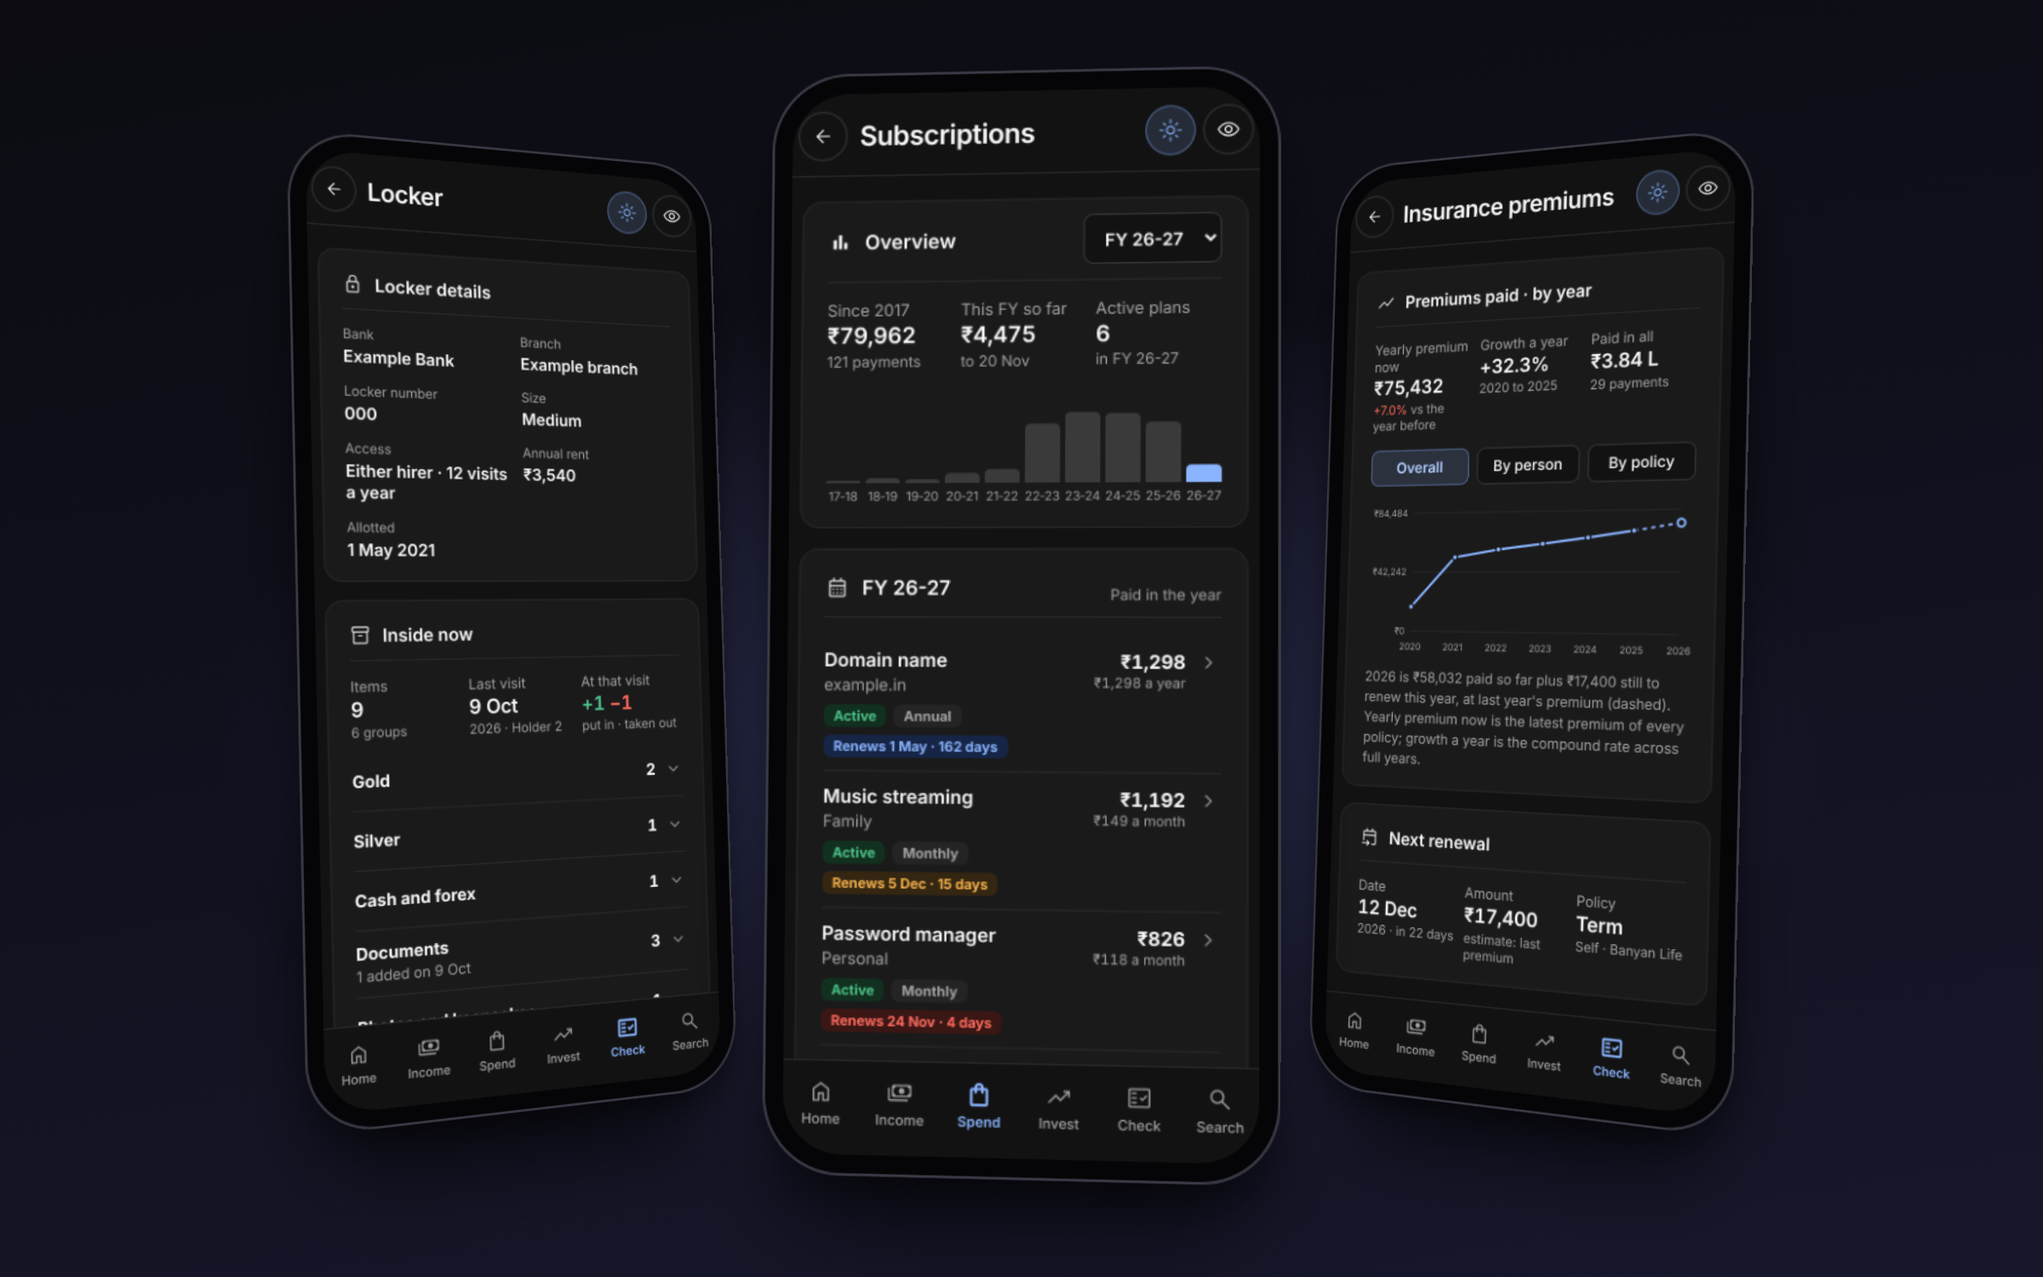
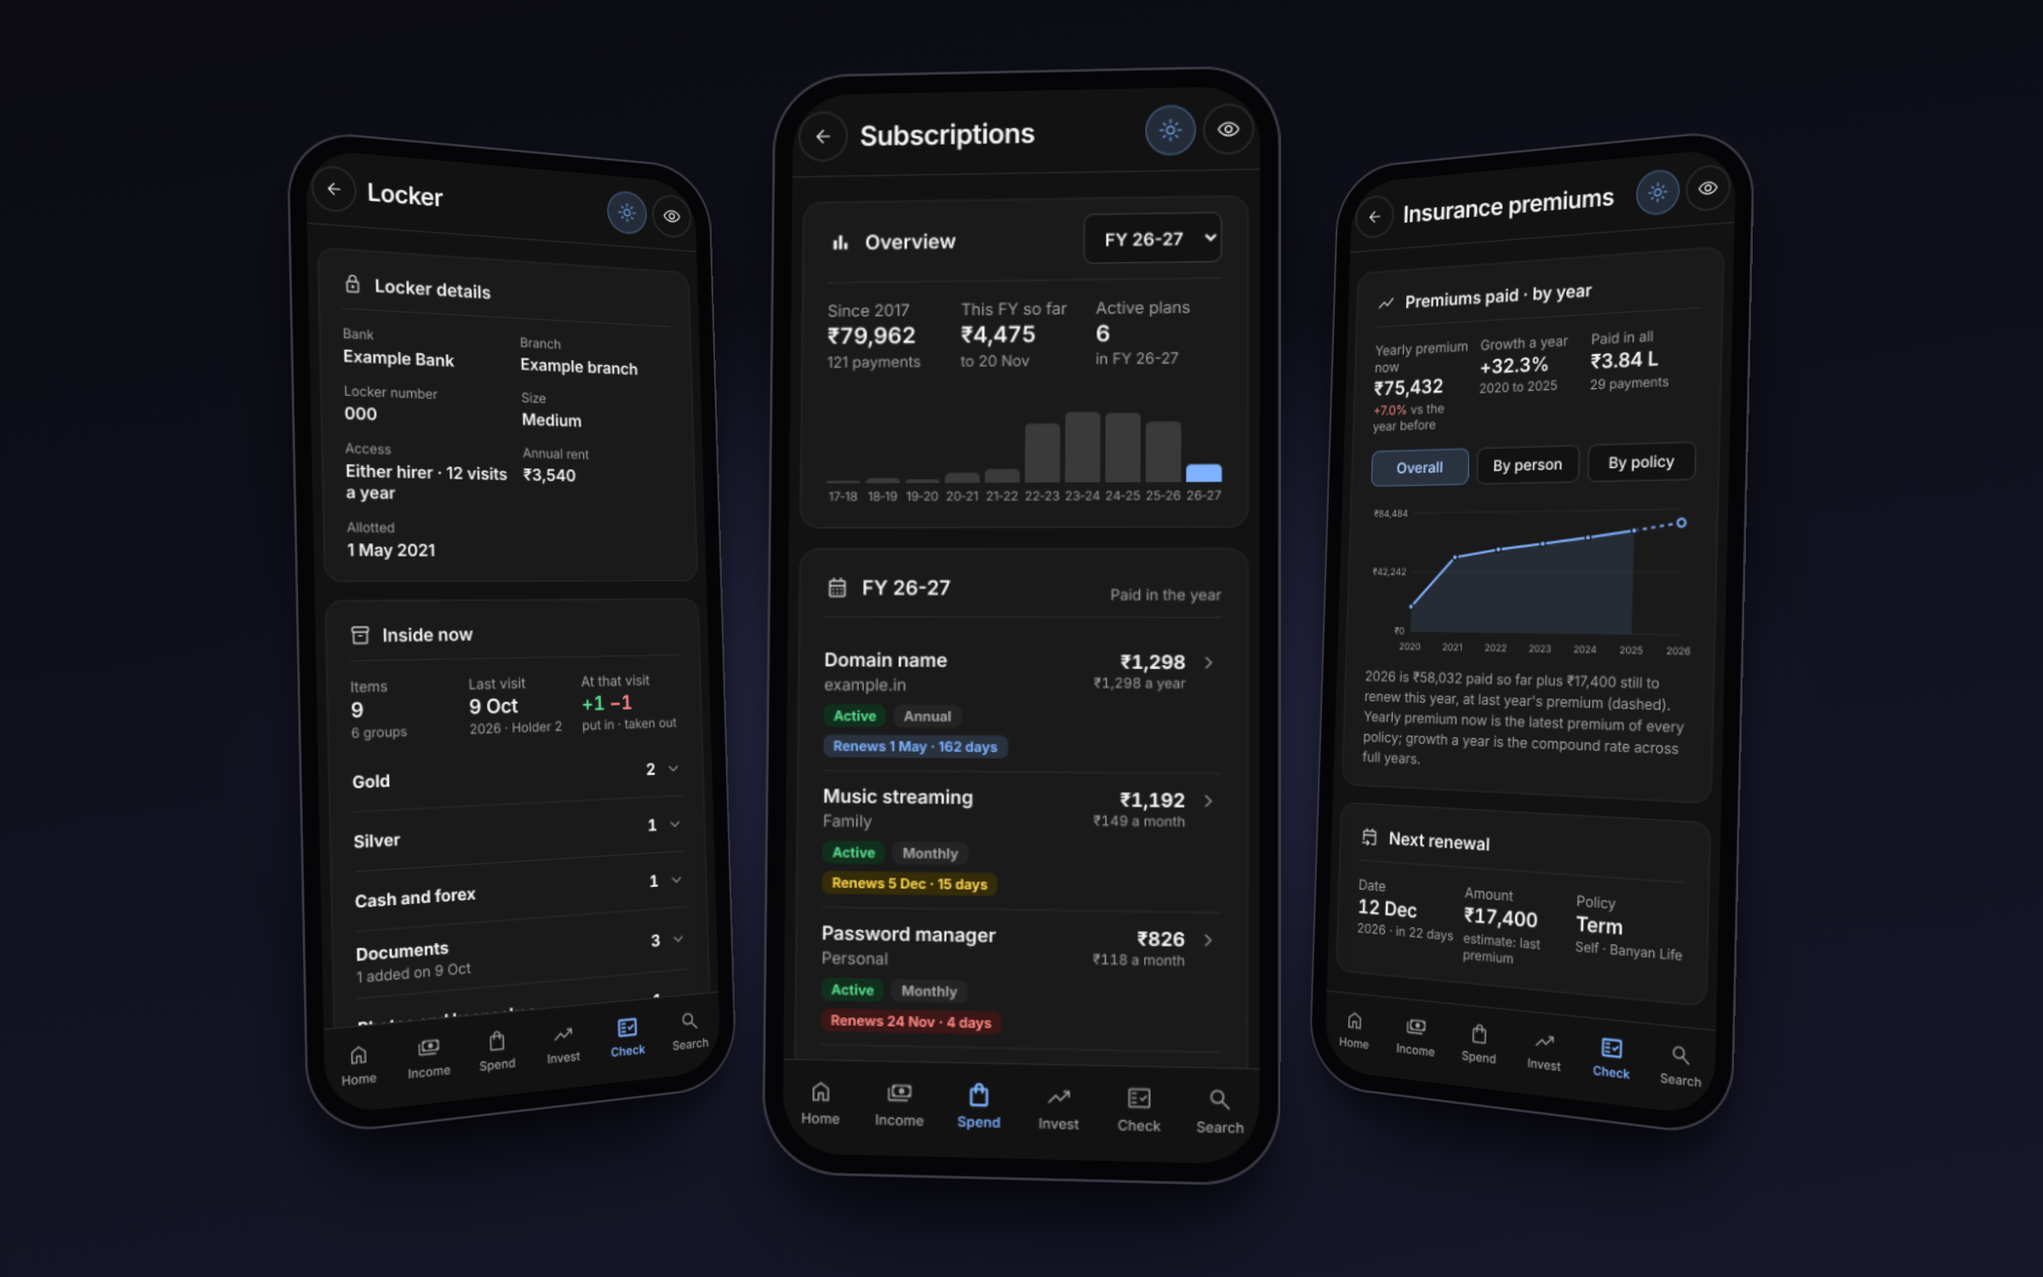
Changed theme colour to Azure

Changed region(s): [[0.6875, 0.3987, 0.8125, 0.5213]]

diff --git a/apps-script/Index.html b/apps-script/Index.html
@@ -203,8 +203,12 @@ button.card{border:1px solid var(--line)}
 :root{--s2:#7B8BA3;--s3:#E2A03F;--s4:#2E9E95;--s5:#C2649A;--s6:#3FA7D6}
 html.dark{--s2:#9AA8BD;--s3:#F0B65E;--s4:#4FC2B8;--s5:#E08BBD;--s6:#6CC4EA}
 /* Tags with time to spare: the accent blue on a light tint */
-:root{--tb:#1F5BD8;--tbb:#E3EEFF}
-html.dark{--tb:#8AB4FF;--tbb:#162545}
+/* Status colours: each a pastel fill, a bold shade for text and a brighter shade for charts and bars.
+   Green: done, healthy, gain. Yellow: watch. Amber: act soon. Red: urgent, loss, missed. Blue: all clear, time to spare. */
+:root{--pos:#12823B;--posbg:#E3F6E9;--posb:#22B05A;--yel:#8A6800;--yelbg:#FFF5C7;--yelb:#F2C200;--amber:#C25700;--amberbg:#FFEBD8;--ambb:#FF8A1F;--neg:#D12C2C;--negbg:#FFE4E4;--negb:#F0453F;--tb:var(--acc2);--tbb:var(--selbg)}
+html.dark{--pos:#5BE08F;--posbg:#10301D;--posb:#3CCB74;--yel:#FFD84D;--yelbg:#352C08;--yelb:#E9BE1C;--amber:#FFAA5C;--amberbg:#3A2410;--ambb:#FF9433;--neg:#FF8A85;--negbg:#3D1616;--negb:#FF5C57;--tb:var(--acc);--tbb:var(--selbg)}
+.pill.a{background:var(--yelbg);color:var(--yel)}
+.fil.over{background:var(--negb);opacity:1}.trk.overtrk{background:var(--negbg)}
 #tip{position:fixed;z-index:100;display:none;transform:translate(-50%,-100%);background:var(--ink);color:var(--bg);font-size:12px;font-weight:700;padding:6px 10px;border-radius:8px;pointer-events:none;white-space:nowrap;font-variant-numeric:tabular-nums;box-shadow:0 4px 14px rgba(0,0,0,.18)}
 .grp{display:flex;justify-content:space-between;align-items:center}
 .w.t{border-bottom:2px solid var(--ink)}
@@ -293,7 +297,7 @@ function load(refresh) {
 
 /* ---------- Pieces ---------- */
 // One accent, blue, in a light and a dark shade. The deep shade is for selected text; the tints are for selected fills, borders and bars.
-var ACC = { light: ['#1F5BD8', '#1849B0'], dark: ['#8AB4FF', '#B3CEFF'] };
+var ACC = { light: ['#2F80FF', '#1C64DB'], dark: ['#7FB2FF', '#A9CBFF'] };
 function rgb(h) { return [1, 3, 5].map(function (i) { return parseInt(h.slice(i, i + 2), 16); }).join(','); }
 // Light or dark: follows the phone until the toggle is tapped, then remembers the choice
 function applyTheme() {
@@ -570,7 +574,7 @@ function vSpend() {
   if (X.month) {
     var vsAvg = X.thisMonth - X.monthAvg, w = X.monthAvg ? Math.min(100, X.thisMonth / X.monthAvg * 100) : 0, we = X.monthAvg ? Math.min(100, X.estMonth / X.monthAvg * 100) : 0;
     o += '<section class="card"><h2 class="ttl" style="margin-bottom:10px">Spent in ' + esc(X.month) + ' so far</h2><div class="big" style="font-size:30px">' + inrC(X.thisMonth) + '</div>';
-    o += '<span class="trk" style="height:8px;margin-top:12px" role="img" aria-label="Spend so far against the monthly average, with the month\'s estimate marked"><span class="fil ' + (vsAvg > 0 ? 'over' : '') + '" style="width:' + w + '%"></span><span class="tick" style="left:' + we + '%;height:14px"></span></span>';
+    o += '<span class="trk' + (vsAvg > 0 ? ' overtrk' : '') + '" style="height:8px;margin-top:12px" role="img" aria-label="Spend so far against the monthly average, with the month\'s estimate marked"><span class="fil ' + (vsAvg > 0 ? 'over' : '') + '" style="width:' + w + '%"></span><span class="tick" style="left:' + we + '%;height:14px"></span></span>';
     o += '<div style="display:flex;justify-content:space-between;font-size:12px;color:var(--mute);margin-top:6px"><span>Bar: so far against the monthly average</span><span>Tick: month estimate</span></div>';
     o += '<div class="stats" style="margin-top:14px;padding-top:12px;border-top:1px solid var(--line)">' +
       stat(X.month + ', est.', inrC(X.estMonth), 'fixed ' + inrC(X.fixedNow) + ' + rest at pace') +
@@ -586,7 +590,7 @@ function vSpend() {
     var mx = Math.max.apply(null, cats.map(function (c) { return yr ? c.year : c.act; }).concat([1]));
     cats.forEach(function (c) {
       var i = X.cats.indexOf(c), val = yr ? c.year : c.act;
-      o += '<button type="button" class="rowbtn" data-act="cat" data-v="' + i + '" style="flex-direction:column;align-items:stretch;gap:6px"><span style="' + CG + '"><span>' + esc(c.k) + '</span><b class="num" style="text-align:right">' + inrC(val) + '</b><span class="num mute" style="text-align:right">' + (yr ? pct(tot ? val / tot : 0, 0) : inrC(c.usual)) + '</span></span><span class="trk"><span class="fil" style="width:' + (val / mx * 100) + '%"></span></span></button>';
+      o += '<button type="button" class="rowbtn" data-act="cat" data-v="' + i + '" style="flex-direction:column;align-items:stretch;gap:6px"><span style="' + CG + '"><span>' + esc(c.k) + '</span><b class="num" style="text-align:right">' + inrC(val) + '</b><span class="num mute" style="text-align:right">' + (yr ? pct(tot ? val / tot : 0, 0) : inrC(c.usual)) + '</span></span><span class="trk"' + (!yr && c.usual ? ' style="background:' + paceCol(c.act / c.usual)[0] + '"' : '') + '><span class="fil" style="width:' + (val / mx * 100) + '%' + (!yr && c.usual ? ';background:' + paceCol(c.act / c.usual)[1] : '') + '"></span></span></button>';
     });
     if (yr) o += '<p class="note" style="font-size:12px">Year: all 12 months as filled in, including months still to come.</p>';
     o += '</section>';
@@ -626,17 +630,19 @@ function subPlan(it) { return it.kind !== 'Giving' && it.kind !== 'Purchases'; }
 // The payment in force at the end of a financial year: the latest one up to 31 March
 function subPriceAt(it, y) { var b = (y + 1) + '-03-31', p = it.lines.filter(function (l) { return l.k && l.k <= b; }); return p.length ? p[p.length - 1] : null; }
 // Tag colours: blue when there is time, amber within 30 days, red within 7 days or missed, green when done or active, grey for cycle and kind
-var TAGC = { on: 'background:var(--posbg);color:var(--pos)', done: 'background:var(--posbg);color:var(--pos)', off: 'background:var(--chip);color:var(--mute)', later: 'background:var(--tbb);color:var(--tb)', soon: 'background:var(--amberbg);color:var(--amber)', now: 'background:var(--negbg);color:var(--neg)', cyc: 'background:var(--chip);color:var(--mute)' };
+var TAGC = { on: 'background:var(--posbg);color:var(--pos)', done: 'background:var(--posbg);color:var(--pos)', off: 'background:var(--chip);color:var(--mute)', later: 'background:var(--tbb);color:var(--tb)', yel: 'background:var(--yelbg);color:var(--yel)', amb: 'background:var(--amberbg);color:var(--amber)', soon: 'background:var(--amberbg);color:var(--amber)', now: 'background:var(--negbg);color:var(--neg)', cyc: 'background:var(--chip);color:var(--mute)' };
 function tag(t, c) { return '<span class="pill" style="font-size:11px;font-weight:700;padding:2px 8px;' + TAGC[c || 'cyc'] + '">' + esc(t) + '</span>'; }
 // Every row carries three tags in the same order: what it is, how often, and when
 function tagWhat(it, endedBy) { return subPlan(it) ? (!it.active && (!endedBy || it.until <= endedBy) ? tag('Cancelled ' + monYr(it.until), 'off') : tag('Active', 'on')) : tag(it.type || (it.kind === 'Giving' ? 'Donation' : 'Purchase')); }
 function tagCyc(it) { return tag(/ad\s*hoc/i.test(it.freq) || !it.freq ? 'Ad hoc' : it.freq); }
 function tagDue(it) {
   if (it.overdue) return tag('Due ' + dayShort(it.due) + ' · not logged', 'now');
-  var d = daysTo(it.due), c = d <= 7 ? 'now' : d <= 30 ? 'soon' : 'later';
+  var d = daysTo(it.due), c = d <= 7 ? 'now' : d <= 14 ? 'amb' : d <= 30 ? 'yel' : 'later';
   if (!subPlan(it)) return tag('Next around ' + monYr(it.due), c);
   return tag(d === 0 ? 'Renews today' : 'Renews ' + dayShort(it.due) + ' · ' + d + (d === 1 ? ' day' : ' days'), c);
 }
+// Spend categories: each bar takes the colour of its pace against the usual month
+function paceCol(r) { return r < 0.9 ? ['var(--posbg)', 'var(--posb)'] : r <= 1 ? ['var(--yelbg)', 'var(--yelb)'] : r <= 1.2 ? ['var(--amberbg)', 'var(--ambb)'] : ['var(--negbg)', 'var(--negb)']; }
 function tagPaid(k) { return tag('Paid ' + day(k), 'done'); }
 // A row: name and plan on the left with tags beneath, the amount on the right
 function subRow(it, amt, under, tags) {
@@ -996,6 +1002,7 @@ function lineChart(labels, series, opts) {
   series.forEach(function (sr) {
     var pts = sr.values.map(function (v, i) { return v == null ? null : [x(i), y(v)]; }).filter(Boolean);
     var solid = sr.estLast && pts.length > 1 ? pts.slice(0, -1) : pts, fmt = function (p) { return p[0].toFixed(1) + ',' + p[1].toFixed(1); };
+    if (series.length === 1 && solid.length > 1) o += '<polygon fill="' + sr.color + '" fill-opacity="0.12" stroke="none" points="' + solid[0][0].toFixed(1) + ',' + (H - B) + ' ' + solid.map(fmt).join(' ') + ' ' + solid[solid.length - 1][0].toFixed(1) + ',' + (H - B) + '"/>';
     if (solid.length > 1) o += '<polyline fill="none" stroke="' + sr.color + '" stroke-width="2.2" stroke-linejoin="round" stroke-linecap="round" points="' + solid.map(fmt).join(' ') + '"/>';
     if (sr.estLast && pts.length > 1) o += '<polyline fill="none" stroke="' + sr.color + '" stroke-width="2" stroke-dasharray="4 4" points="' + fmt(pts[pts.length - 2]) + ' ' + fmt(pts[pts.length - 1]) + '"/>';
     sr.values.forEach(function (v, i) { if (v == null) return; hits += '<circle cx="' + x(i).toFixed(1) + '" cy="' + y(v).toFixed(1) + '" r="11" fill="transparent" data-tip="' + esc(labels[i] + (series.length > 1 ? ' · ' + sr.name : '') + ': ' + inrK(v) + (sr.estLast && i === sr.values.length - 1 ? ' (estimate)' : '')) + '"/>'; });

diff --git a/docs/index.html b/docs/index.html
@@ -203,8 +203,12 @@ button.card{border:1px solid var(--line)}
 :root{--s2:#7B8BA3;--s3:#E2A03F;--s4:#2E9E95;--s5:#C2649A;--s6:#3FA7D6}
 html.dark{--s2:#9AA8BD;--s3:#F0B65E;--s4:#4FC2B8;--s5:#E08BBD;--s6:#6CC4EA}
 /* Tags with time to spare: the accent blue on a light tint */
-:root{--tb:#1F5BD8;--tbb:#E3EEFF}
-html.dark{--tb:#8AB4FF;--tbb:#162545}
+/* Status colours: each a pastel fill, a bold shade for text and a brighter shade for charts and bars.
+   Green: done, healthy, gain. Yellow: watch. Amber: act soon. Red: urgent, loss, missed. Blue: all clear, time to spare. */
+:root{--pos:#12823B;--posbg:#E3F6E9;--posb:#22B05A;--yel:#8A6800;--yelbg:#FFF5C7;--yelb:#F2C200;--amber:#C25700;--amberbg:#FFEBD8;--ambb:#FF8A1F;--neg:#D12C2C;--negbg:#FFE4E4;--negb:#F0453F;--tb:var(--acc2);--tbb:var(--selbg)}
+html.dark{--pos:#5BE08F;--posbg:#10301D;--posb:#3CCB74;--yel:#FFD84D;--yelbg:#352C08;--yelb:#E9BE1C;--amber:#FFAA5C;--amberbg:#3A2410;--ambb:#FF9433;--neg:#FF8A85;--negbg:#3D1616;--negb:#FF5C57;--tb:var(--acc);--tbb:var(--selbg)}
+.pill.a{background:var(--yelbg);color:var(--yel)}
+.fil.over{background:var(--negb);opacity:1}.trk.overtrk{background:var(--negbg)}
 #tip{position:fixed;z-index:100;display:none;transform:translate(-50%,-100%);background:var(--ink);color:var(--bg);font-size:12px;font-weight:700;padding:6px 10px;border-radius:8px;pointer-events:none;white-space:nowrap;font-variant-numeric:tabular-nums;box-shadow:0 4px 14px rgba(0,0,0,.18)}
 .grp{display:flex;justify-content:space-between;align-items:center}
 .w.t{border-bottom:2px solid var(--ink)}
@@ -293,7 +297,7 @@ function load(refresh) {
 
 /* ---------- Pieces ---------- */
 // One accent, blue, in a light and a dark shade. The deep shade is for selected text; the tints are for selected fills, borders and bars.
-var ACC = { light: ['#1F5BD8', '#1849B0'], dark: ['#8AB4FF', '#B3CEFF'] };
+var ACC = { light: ['#2F80FF', '#1C64DB'], dark: ['#7FB2FF', '#A9CBFF'] };
 function rgb(h) { return [1, 3, 5].map(function (i) { return parseInt(h.slice(i, i + 2), 16); }).join(','); }
 // Light or dark: follows the phone until the toggle is tapped, then remembers the choice
 function applyTheme() {
@@ -570,7 +574,7 @@ function vSpend() {
   if (X.month) {
     var vsAvg = X.thisMonth - X.monthAvg, w = X.monthAvg ? Math.min(100, X.thisMonth / X.monthAvg * 100) : 0, we = X.monthAvg ? Math.min(100, X.estMonth / X.monthAvg * 100) : 0;
     o += '<section class="card"><h2 class="ttl" style="margin-bottom:10px">Spent in ' + esc(X.month) + ' so far</h2><div class="big" style="font-size:30px">' + inrC(X.thisMonth) + '</div>';
-    o += '<span class="trk" style="height:8px;margin-top:12px" role="img" aria-label="Spend so far against the monthly average, with the month\'s estimate marked"><span class="fil ' + (vsAvg > 0 ? 'over' : '') + '" style="width:' + w + '%"></span><span class="tick" style="left:' + we + '%;height:14px"></span></span>';
+    o += '<span class="trk' + (vsAvg > 0 ? ' overtrk' : '') + '" style="height:8px;margin-top:12px" role="img" aria-label="Spend so far against the monthly average, with the month\'s estimate marked"><span class="fil ' + (vsAvg > 0 ? 'over' : '') + '" style="width:' + w + '%"></span><span class="tick" style="left:' + we + '%;height:14px"></span></span>';
     o += '<div style="display:flex;justify-content:space-between;font-size:12px;color:var(--mute);margin-top:6px"><span>Bar: so far against the monthly average</span><span>Tick: month estimate</span></div>';
     o += '<div class="stats" style="margin-top:14px;padding-top:12px;border-top:1px solid var(--line)">' +
       stat(X.month + ', est.', inrC(X.estMonth), 'fixed ' + inrC(X.fixedNow) + ' + rest at pace') +
@@ -586,7 +590,7 @@ function vSpend() {
     var mx = Math.max.apply(null, cats.map(function (c) { return yr ? c.year : c.act; }).concat([1]));
     cats.forEach(function (c) {
       var i = X.cats.indexOf(c), val = yr ? c.year : c.act;
-      o += '<button type="button" class="rowbtn" data-act="cat" data-v="' + i + '" style="flex-direction:column;align-items:stretch;gap:6px"><span style="' + CG + '"><span>' + esc(c.k) + '</span><b class="num" style="text-align:right">' + inrC(val) + '</b><span class="num mute" style="text-align:right">' + (yr ? pct(tot ? val / tot : 0, 0) : inrC(c.usual)) + '</span></span><span class="trk"><span class="fil" style="width:' + (val / mx * 100) + '%"></span></span></button>';
+      o += '<button type="button" class="rowbtn" data-act="cat" data-v="' + i + '" style="flex-direction:column;align-items:stretch;gap:6px"><span style="' + CG + '"><span>' + esc(c.k) + '</span><b class="num" style="text-align:right">' + inrC(val) + '</b><span class="num mute" style="text-align:right">' + (yr ? pct(tot ? val / tot : 0, 0) : inrC(c.usual)) + '</span></span><span class="trk"' + (!yr && c.usual ? ' style="background:' + paceCol(c.act / c.usual)[0] + '"' : '') + '><span class="fil" style="width:' + (val / mx * 100) + '%' + (!yr && c.usual ? ';background:' + paceCol(c.act / c.usual)[1] : '') + '"></span></span></button>';
     });
     if (yr) o += '<p class="note" style="font-size:12px">Year: all 12 months as filled in, including months still to come.</p>';
     o += '</section>';
@@ -626,17 +630,19 @@ function subPlan(it) { return it.kind !== 'Giving' && it.kind !== 'Purchases'; }
 // The payment in force at the end of a financial year: the latest one up to 31 March
 function subPriceAt(it, y) { var b = (y + 1) + '-03-31', p = it.lines.filter(function (l) { return l.k && l.k <= b; }); return p.length ? p[p.length - 1] : null; }
 // Tag colours: blue when there is time, amber within 30 days, red within 7 days or missed, green when done or active, grey for cycle and kind
-var TAGC = { on: 'background:var(--posbg);color:var(--pos)', done: 'background:var(--posbg);color:var(--pos)', off: 'background:var(--chip);color:var(--mute)', later: 'background:var(--tbb);color:var(--tb)', soon: 'background:var(--amberbg);color:var(--amber)', now: 'background:var(--negbg);color:var(--neg)', cyc: 'background:var(--chip);color:var(--mute)' };
+var TAGC = { on: 'background:var(--posbg);color:var(--pos)', done: 'background:var(--posbg);color:var(--pos)', off: 'background:var(--chip);color:var(--mute)', later: 'background:var(--tbb);color:var(--tb)', yel: 'background:var(--yelbg);color:var(--yel)', amb: 'background:var(--amberbg);color:var(--amber)', soon: 'background:var(--amberbg);color:var(--amber)', now: 'background:var(--negbg);color:var(--neg)', cyc: 'background:var(--chip);color:var(--mute)' };
 function tag(t, c) { return '<span class="pill" style="font-size:11px;font-weight:700;padding:2px 8px;' + TAGC[c || 'cyc'] + '">' + esc(t) + '</span>'; }
 // Every row carries three tags in the same order: what it is, how often, and when
 function tagWhat(it, endedBy) { return subPlan(it) ? (!it.active && (!endedBy || it.until <= endedBy) ? tag('Cancelled ' + monYr(it.until), 'off') : tag('Active', 'on')) : tag(it.type || (it.kind === 'Giving' ? 'Donation' : 'Purchase')); }
 function tagCyc(it) { return tag(/ad\s*hoc/i.test(it.freq) || !it.freq ? 'Ad hoc' : it.freq); }
 function tagDue(it) {
   if (it.overdue) return tag('Due ' + dayShort(it.due) + ' · not logged', 'now');
-  var d = daysTo(it.due), c = d <= 7 ? 'now' : d <= 30 ? 'soon' : 'later';
+  var d = daysTo(it.due), c = d <= 7 ? 'now' : d <= 14 ? 'amb' : d <= 30 ? 'yel' : 'later';
   if (!subPlan(it)) return tag('Next around ' + monYr(it.due), c);
   return tag(d === 0 ? 'Renews today' : 'Renews ' + dayShort(it.due) + ' · ' + d + (d === 1 ? ' day' : ' days'), c);
 }
+// Spend categories: each bar takes the colour of its pace against the usual month
+function paceCol(r) { return r < 0.9 ? ['var(--posbg)', 'var(--posb)'] : r <= 1 ? ['var(--yelbg)', 'var(--yelb)'] : r <= 1.2 ? ['var(--amberbg)', 'var(--ambb)'] : ['var(--negbg)', 'var(--negb)']; }
 function tagPaid(k) { return tag('Paid ' + day(k), 'done'); }
 // A row: name and plan on the left with tags beneath, the amount on the right
 function subRow(it, amt, under, tags) {
@@ -996,6 +1002,7 @@ function lineChart(labels, series, opts) {
   series.forEach(function (sr) {
     var pts = sr.values.map(function (v, i) { return v == null ? null : [x(i), y(v)]; }).filter(Boolean);
     var solid = sr.estLast && pts.length > 1 ? pts.slice(0, -1) : pts, fmt = function (p) { return p[0].toFixed(1) + ',' + p[1].toFixed(1); };
+    if (series.length === 1 && solid.length > 1) o += '<polygon fill="' + sr.color + '" fill-opacity="0.12" stroke="none" points="' + solid[0][0].toFixed(1) + ',' + (H - B) + ' ' + solid.map(fmt).join(' ') + ' ' + solid[solid.length - 1][0].toFixed(1) + ',' + (H - B) + '"/>';
     if (solid.length > 1) o += '<polyline fill="none" stroke="' + sr.color + '" stroke-width="2.2" stroke-linejoin="round" stroke-linecap="round" points="' + solid.map(fmt).join(' ') + '"/>';
     if (sr.estLast && pts.length > 1) o += '<polyline fill="none" stroke="' + sr.color + '" stroke-width="2" stroke-dasharray="4 4" points="' + fmt(pts[pts.length - 2]) + ' ' + fmt(pts[pts.length - 1]) + '"/>';
     sr.values.forEach(function (v, i) { if (v == null) return; hits += '<circle cx="' + x(i).toFixed(1) + '" cy="' + y(v).toFixed(1) + '" r="11" fill="transparent" data-tip="' + esc(labels[i] + (series.length > 1 ? ' · ' + sr.name : '') + ': ' + inrK(v) + (sr.estLast && i === sr.values.length - 1 ? ' (estimate)' : '')) + '"/>'; });
